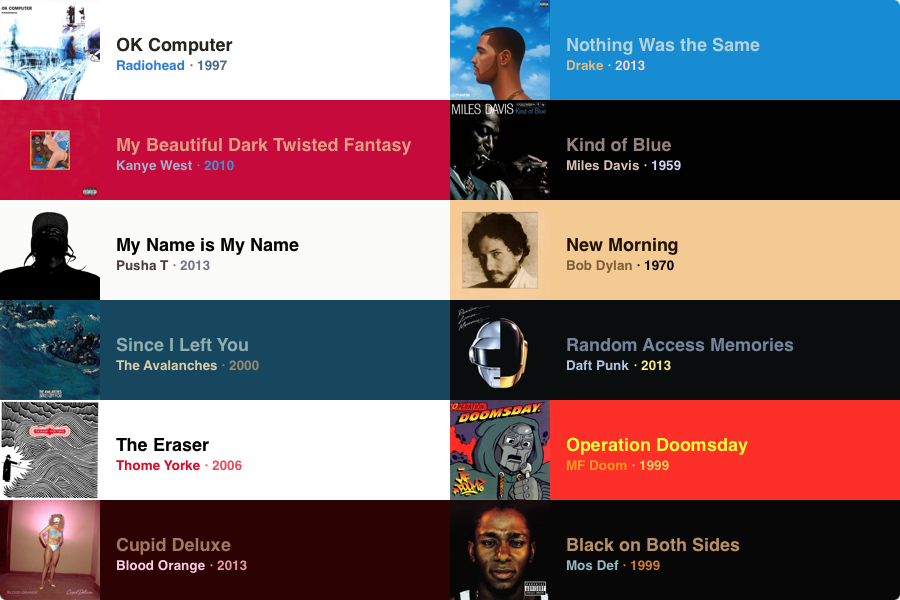
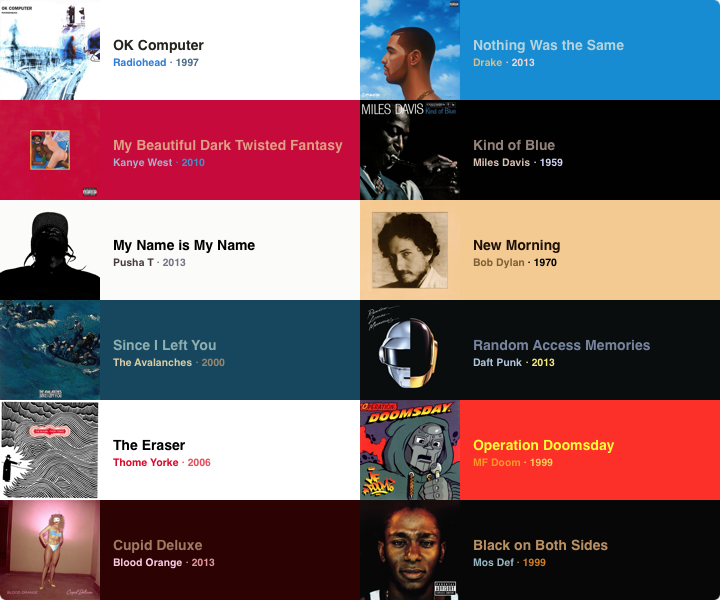
Reduce preview width to fit in GitHub README

diff --git a/UIImageColorsPlayground.playground/Sources/Container.swift b/UIImageColorsPlayground.playground/Sources/Container.swift
@@ -17,14 +17,14 @@ public class Album {
 public class Container: UIView {
     
     public init(album: Album) {
-        super.init(frame: CGRectMake(0, 0, 450, 100))
+        super.init(frame: CGRectMake(0, 0, 360, 100))
         
         let albumImageView = UIImageView(frame: CGRectMake(0, 0, self.frame.height, self.frame.height))
         albumImageView.image = UIImage(named: album.albumFile)
         self.addSubview(albumImageView)
         
         let albumTitle = UILabel()
-        albumTitle.font = UIFont(name: "Helvetica-Bold", size: 18)
+        albumTitle.font = UIFont(name: "Helvetica-Bold", size: 14)
         albumTitle.text = album.albumName
         albumTitle.sizeToFit()
         self.addSubview(albumTitle)
